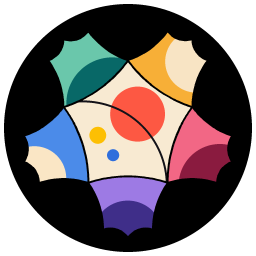
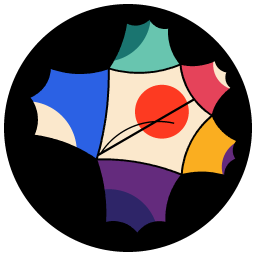
Recompose the six Escher pentagons off center

diff --git a/README.md b/README.md
@@ -2,7 +2,7 @@
 
 # Escher
 
-Escher lets you build lattices and explore how their defects combine and bend a sheet. The logo shows the central pentagon of a hyperbolic `{5,5}` tiling and its five edge-sharing neighbors.
+Escher lets you build lattices and explore how their defects combine and bend a sheet. The off-center logo shows a pentagon and its five edge-sharing neighbors from a hyperbolic `{5,5}` tiling.
 
 ## Install
 
